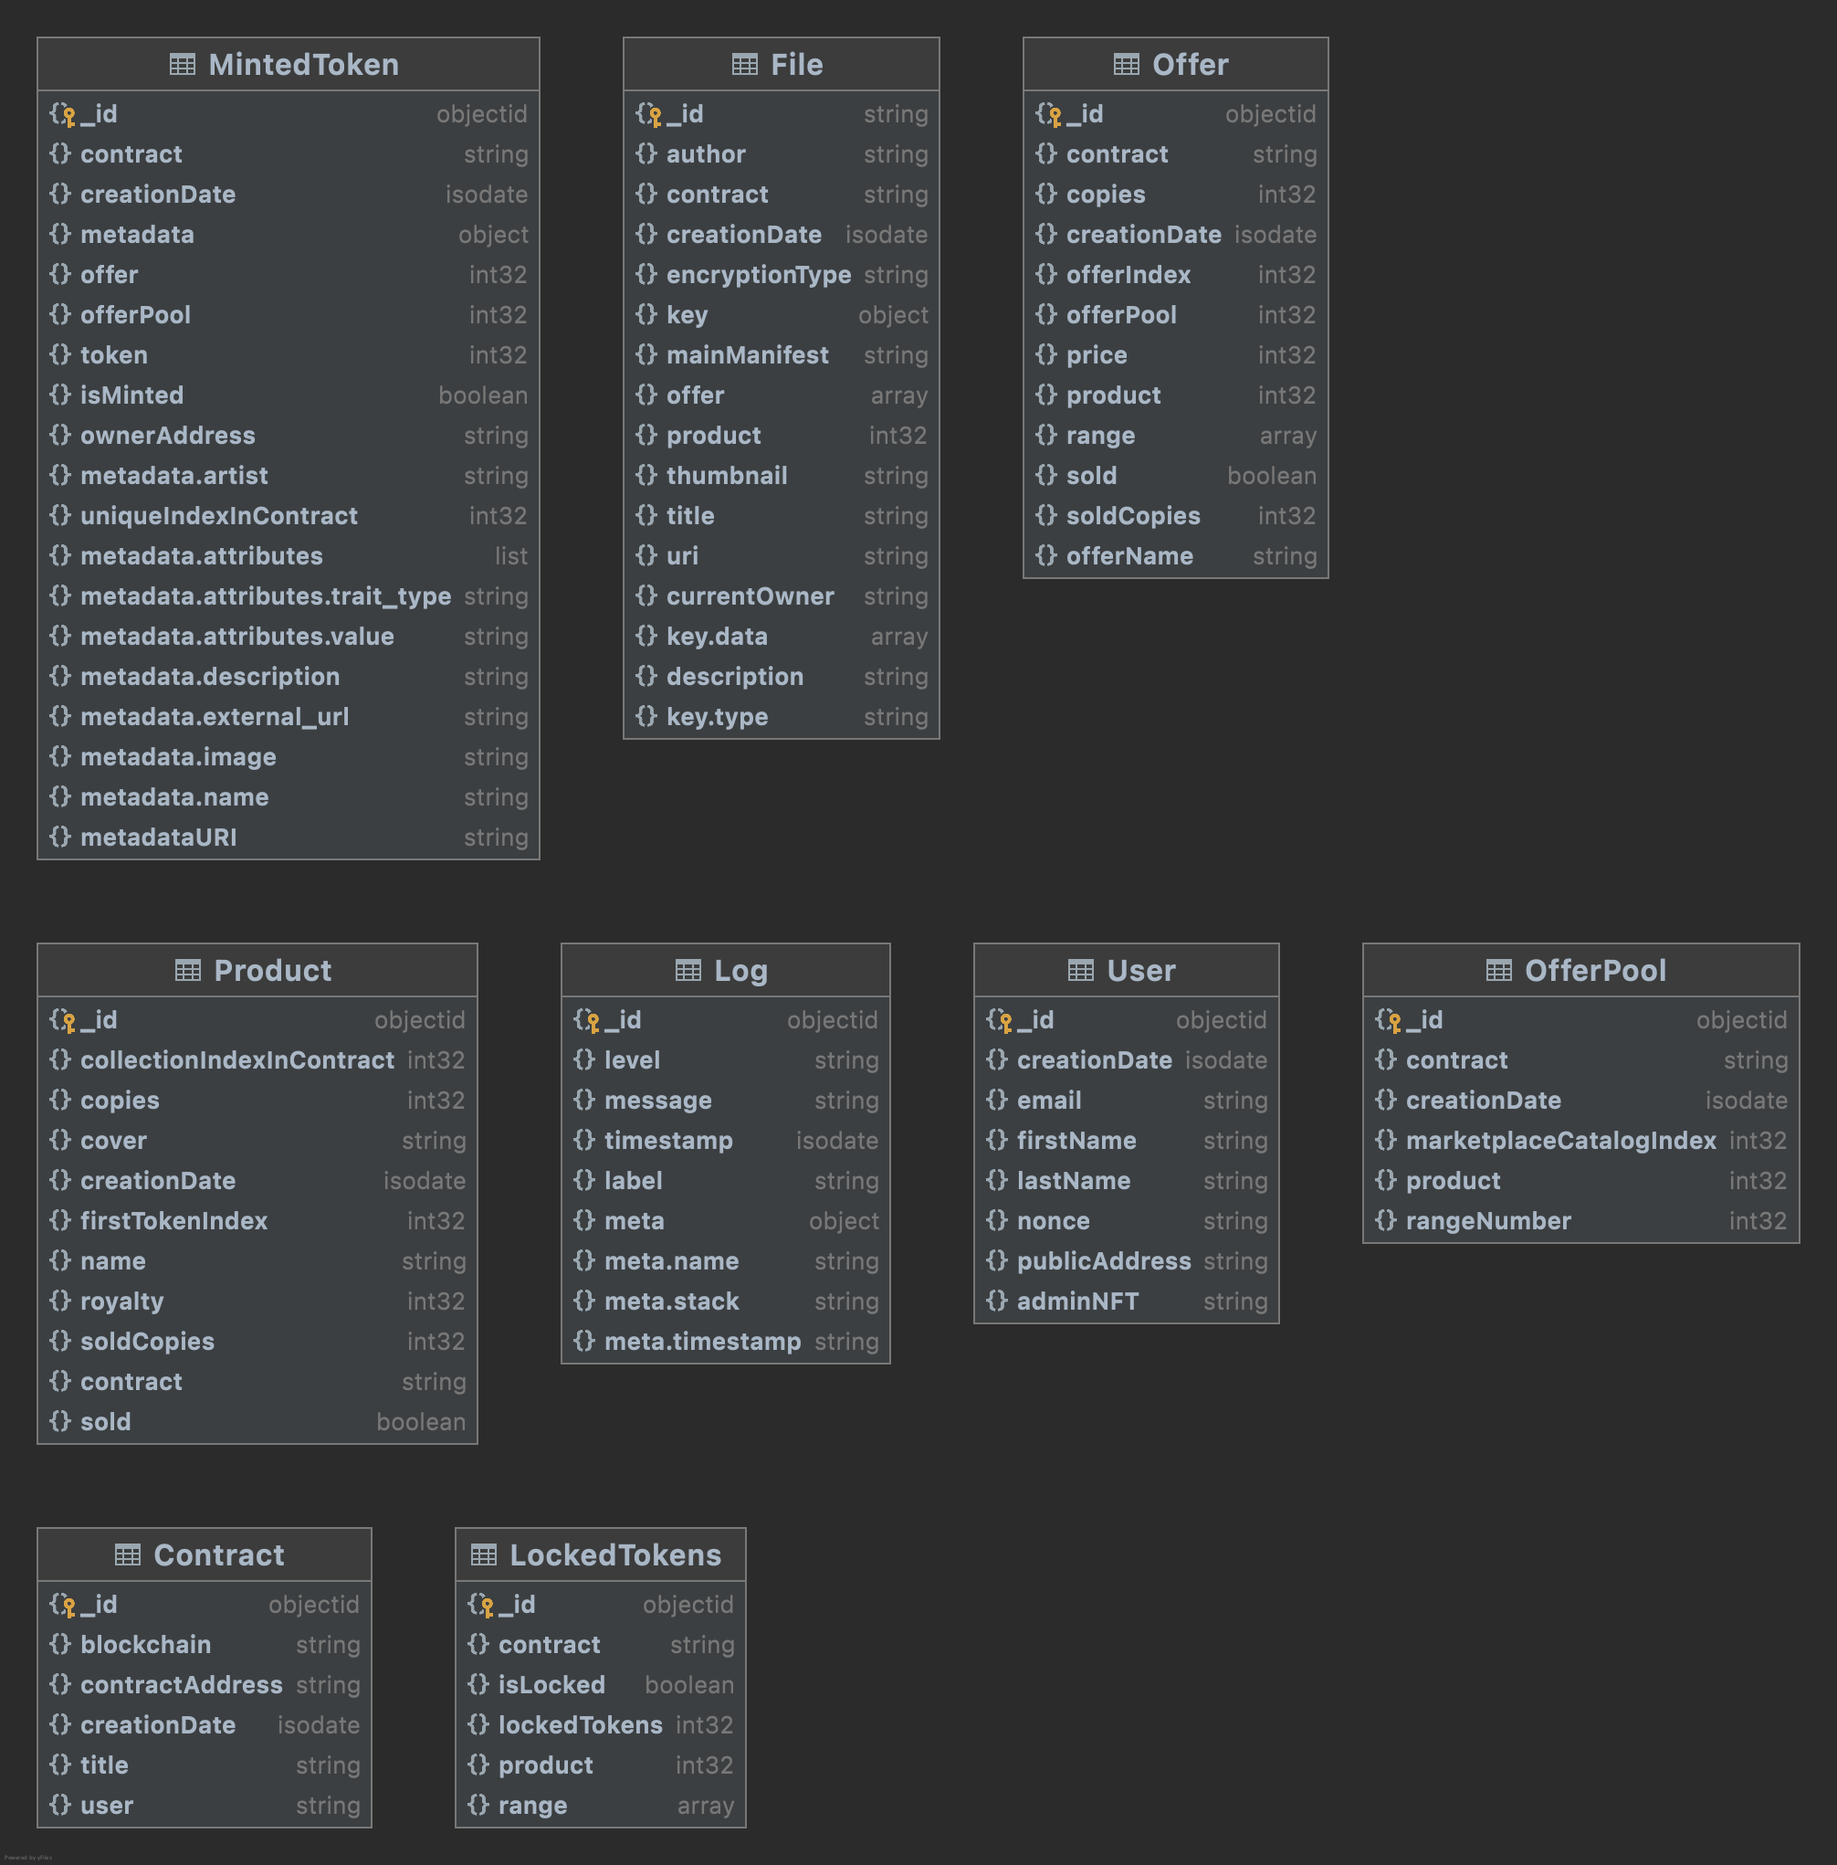
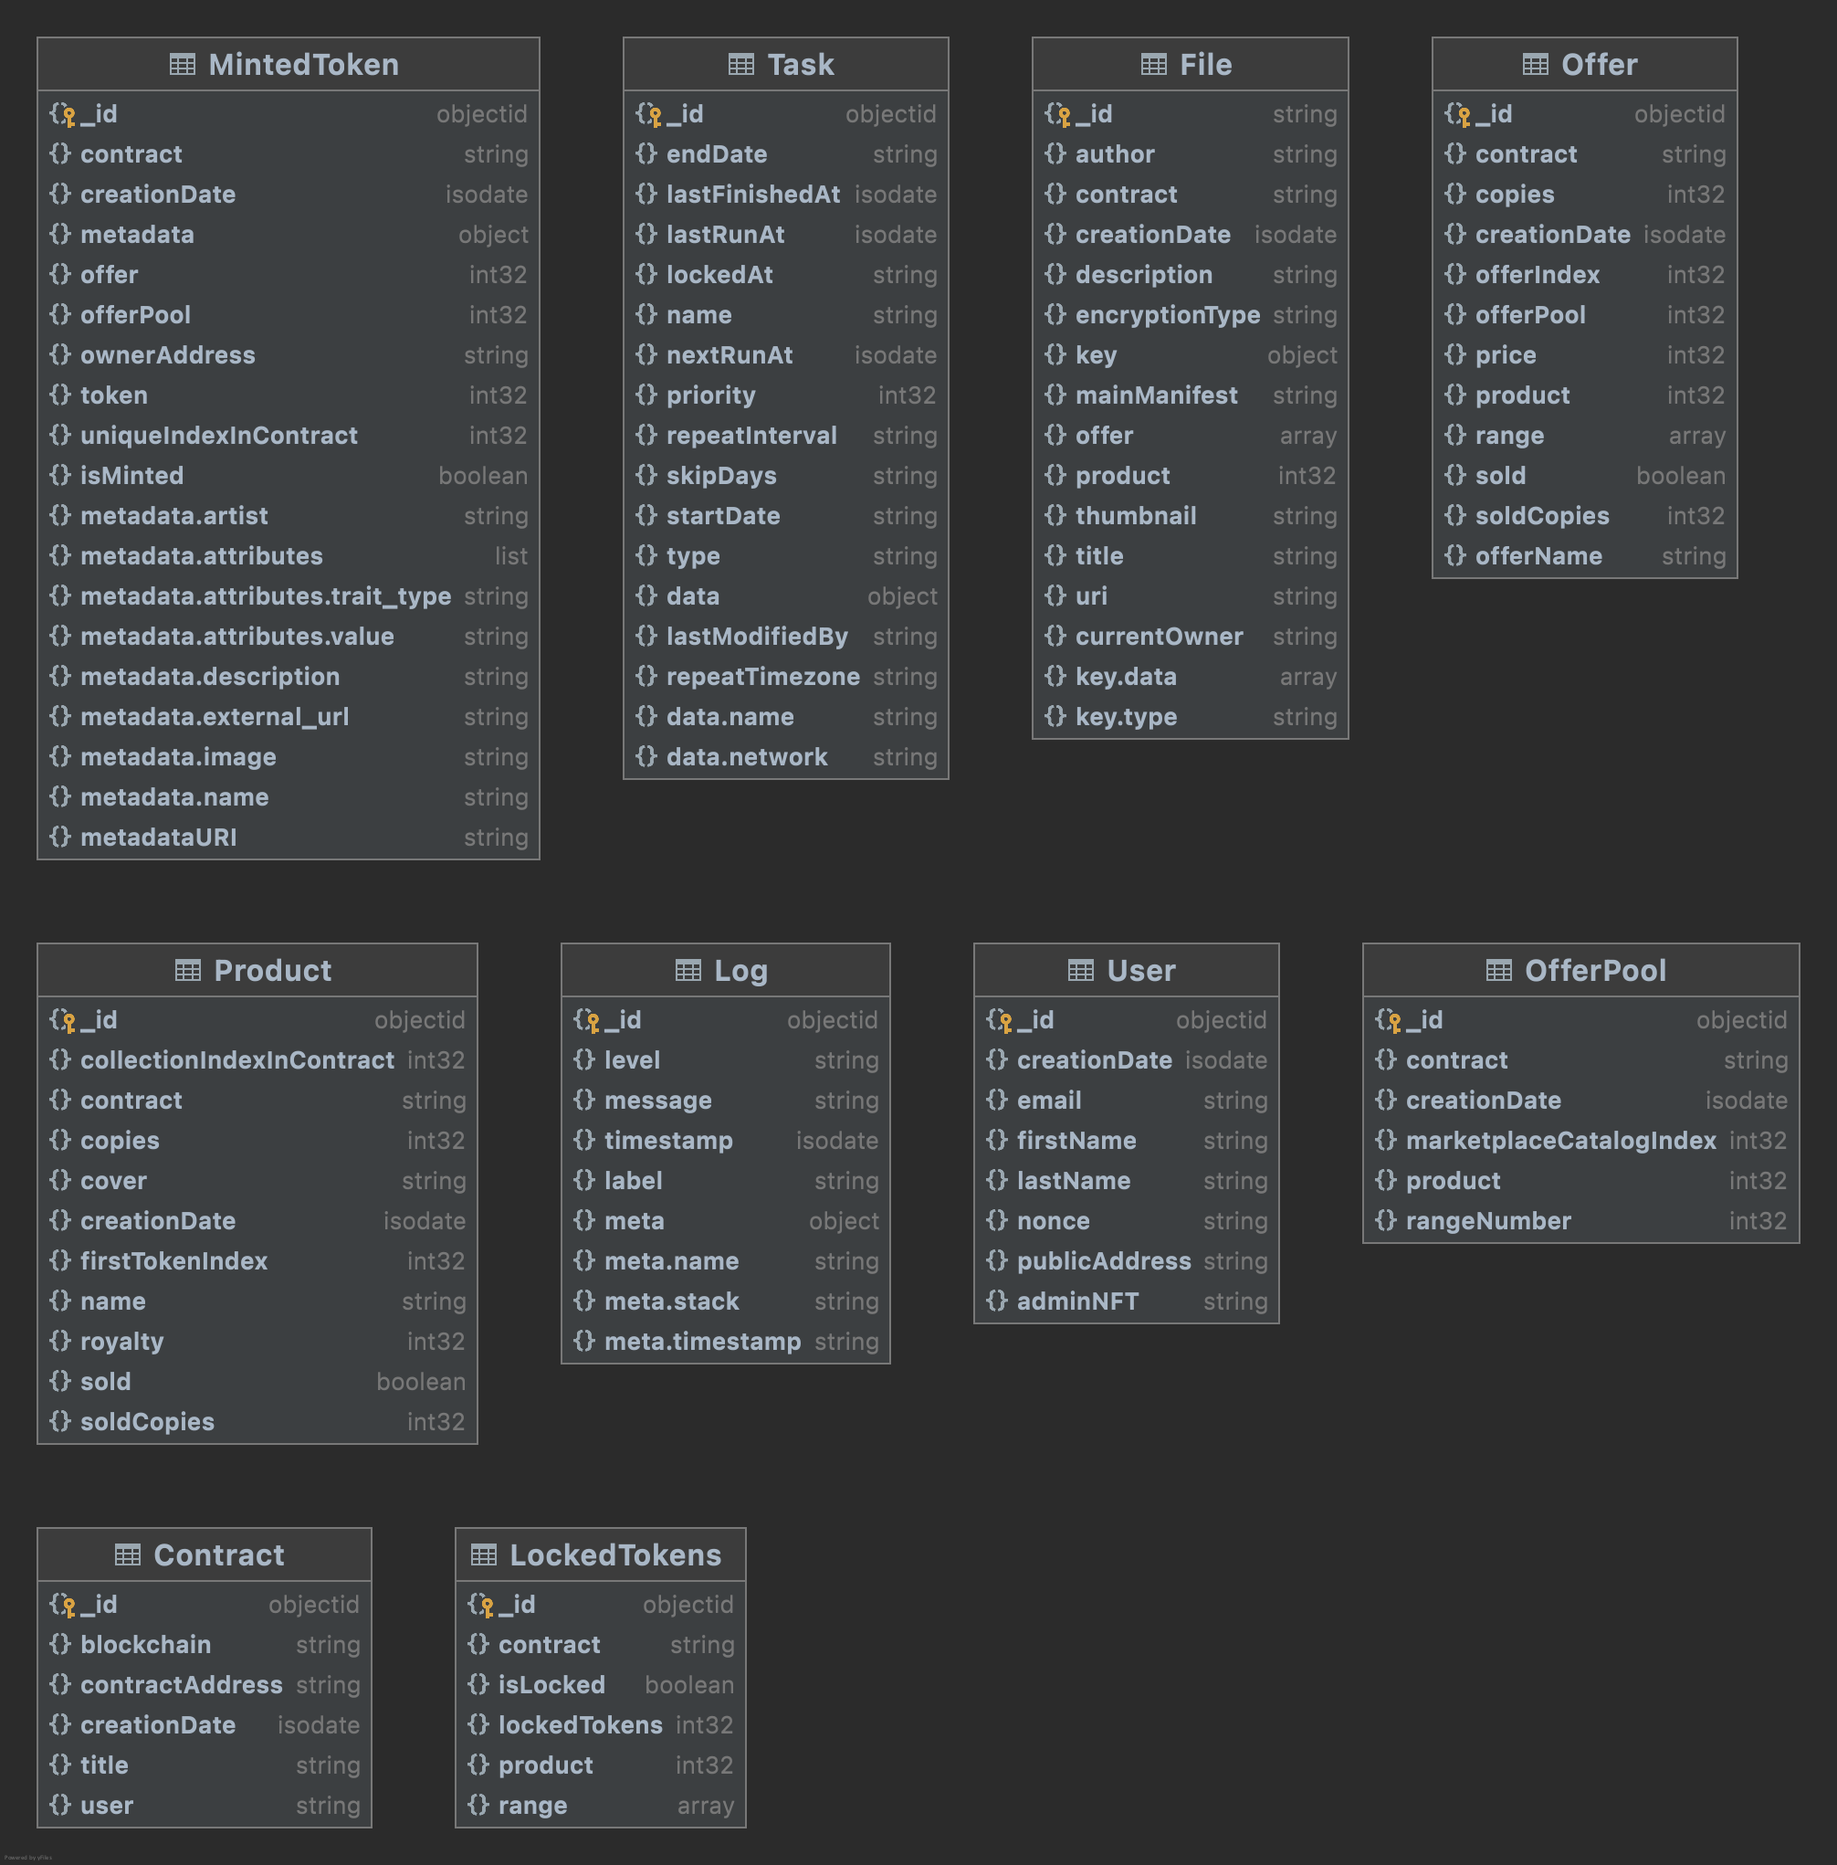
using single time connection to the networks; using fully configurable values of network connection parameters; updating compose files; updating .env file; updating DB structure in docs; refactoring;

diff --git a/blockchain-networks-service/bin/integrations/ethers/index.js b/blockchain-networks-service/bin/integrations/ethers/index.js
@@ -128,7 +128,7 @@ module.exports = async (db) => {
       const numberOfTokens = await factoryInstance.getContractCountOf(ownerAddress);
       const foundContracts = await db.Contract.find({ user: ownerAddress }).distinct('contractAddress');
 
-      log.info(`${ ownerAddress } has deployed, ${ numberOfTokens.toString() }, contracts in ${provider._network.name} network.`);
+      log.info(`${ ownerAddress } has deployed, ${ numberOfTokens.toString() }, contracts in ${ provider._network.name } network.`);
 
       for (let j = 0; j < numberOfTokens; j++) {
         const contractAddress = await factoryInstance.ownerToContracts(ownerAddress, j);
@@ -137,7 +137,7 @@ module.exports = async (db) => {
         const erc777Instance = new ethers.Contract(contract, Token, provider);
         const title = await erc777Instance.name();
 
-        log.info(`Contract ${ contractAddress } found for network ${provider._network.name}!`);
+        log.info(`Contract ${ contractAddress } found for network ${ provider._network.name }!`);
 
         if (!_.includes(foundContracts, contract)) {
           await db.Contract.create({
@@ -313,21 +313,18 @@ module.exports = async (db) => {
   };
 
   return Promise.all(_.map(providers, async providerData => {
-    const provider = new ethers.providers.JsonRpcProvider(providerData.url, providerData.network);
-
-    console.log('Connected to', provider._network.name);
-    console.log('Symbol:', provider._network.symbol);
+    console.log(`Connected to ${ providerData.provider._network.name }. Symbol: ${ providerData.provider._network.symbol }`);
 
     // These connections don't have an address associated, so they can read but can't write to the blockchain
-    let factoryInstance = await new ethers.Contract(providerData.factoryAddress, Factory, provider);
-    let minterInstance = await new ethers.Contract(providerData.minterAddress, Market, provider);
+    let factoryInstance = await new ethers.Contract(providerData.factoryAddress, Factory, providerData.provider);
+    let minterInstance = await new ethers.Contract(providerData.minterAddress, Market, providerData.provider);
 
     // Contracts
-    contractListeners(factoryInstance, provider);
+    contractListeners(factoryInstance, providerData.provider);
 
     // Products
     const arrayOfUsers = await db.User.distinct('publicAddress');
-    await Promise.all(_.map(arrayOfUsers, user => productListeners(provider, factoryInstance, user)));
+    await Promise.all(_.map(arrayOfUsers, user => productListeners(providerData.provider, factoryInstance, user)));
 
     // Offers
     offerListeners(minterInstance);

diff --git a/blockchain-networks-service/bin/integrations/ethers/providers.js b/blockchain-networks-service/bin/integrations/ethers/providers.js
@@ -1,23 +1,58 @@
+const ethers = require('ethers');
+
+const {
+  BINANCE_URL,
+  BINANCE_CHAIN_ID,
+  BINANCE_SYMBOL,
+  BINANCE_NAME,
+  BINANCE_FACTORY_ADDRESS,
+  BINANCE_MINTER_ADDRESS,
+  GOERLI_URL,
+  GOERLI_CHAIN_ID,
+  GOERLI_SYMBOL,
+  GOERLI_NAME,
+  GOERLI_FACTORY_ADDRESS,
+  GOERLI_MINTER_ADDRESS,
+  MATIC_MUMBAI_URL,
+  MATIC_MUMBAI_CHAIN_ID,
+  MATIC_MUMBAI_SYMBOL,
+  MATIC_MUMBAI_NAME,
+  MATIC_MUMBAI_FACTORY_ADDRESS,
+  MATIC_MUMBAI_MINTER_ADDRESS
+} = process.env;
+
 module.exports = [
   {
-    url: 'https://data-seed-prebsc-1-s1.binance.org:8545/',
-    network: { chainId: 97, symbol: 'BNB', name: 'Binance Testnet' },
-    factoryAddress: '0x91429c87b1D85B0bDea7df6F71C854aBeaD99EE4',
-    minterAddress: '0x3a61f5bF7D205AdBd9c0beE91709482AcBEE089f',
-    symbol: 'BNB',
+    provider: new ethers.providers.JsonRpcProvider(BINANCE_URL, {
+      chainId: Number(BINANCE_CHAIN_ID),
+      symbol: BINANCE_SYMBOL,
+      name: BINANCE_NAME
+    }),
+    factoryAddress: BINANCE_FACTORY_ADDRESS,
+    minterAddress: BINANCE_MINTER_ADDRESS,
+    network: BINANCE_SYMBOL,
+    name: BINANCE_NAME
   },
   {
-    url: 'https://eth-goerli.alchemyapi.io/v2/U0H4tRHPsDH69OKr4Hp1TOrDi-j7PKN_',
-    network: { chainId: 5, symbol: 'ETH', name: 'Goerli Testnet' },
-    factoryAddress: '0x74278C22BfB1DCcc3d42F8b71280C25691E8C157',
-    minterAddress: '0xE5c44102C354B97cbcfcA56F53Ea9Ede572a39Ba',
-    symbol: 'ETH'
+    provider: new ethers.providers.JsonRpcProvider(GOERLI_URL, {
+      chainId: Number(GOERLI_CHAIN_ID),
+      symbol: GOERLI_SYMBOL,
+      name: GOERLI_NAME
+    }),
+    factoryAddress: GOERLI_FACTORY_ADDRESS,
+    minterAddress: GOERLI_MINTER_ADDRESS,
+    network: GOERLI_SYMBOL,
+    name: GOERLI_NAME
   },
   {
-    url: 'https://rpc-mumbai.maticvigil.com',
-    network: { chainId: 80001, symbol: 'tMATIC', name: 'Matic Mumbai Testnet' },
-    factoryAddress: '0x1A5bf89208Dddd09614919eE31EA6E40D42493CD',
-    minterAddress: '0x63Dd6821D902012B664dD80140C54A98CeE97068',
-    symbol: 'tMATIC'
+    provider: new ethers.providers.JsonRpcProvider(MATIC_MUMBAI_URL, {
+      chainId: Number(MATIC_MUMBAI_CHAIN_ID),
+      symbol: MATIC_MUMBAI_SYMBOL,
+      name: MATIC_MUMBAI_NAME
+    }),
+    factoryAddress: MATIC_MUMBAI_FACTORY_ADDRESS,
+    minterAddress: MATIC_MUMBAI_MINTER_ADDRESS,
+    network: MATIC_MUMBAI_SYMBOL,
+    name: MATIC_MUMBAI_NAME
   }
 ];

diff --git a/blockchain-networks-service/bin/tasks/sync-tokens.js b/blockchain-networks-service/bin/tasks/sync-tokens.js
@@ -1,6 +1,7 @@
 const ethers = require('ethers');
 const _ = require('lodash');
 const log = require('../utils/logger')(module);
+const providers = require('../integrations/ethers/providers');
 const { abi: Token } = require('../integrations/ethers/contracts/RAIR_ERC721.json');
 const { BigNumberFromFunc, BigNumber } = require('../utils/helpers');
 
@@ -9,11 +10,12 @@ const lockLifetime = 1000 * 60 * 5; // 5 minutes - This could become very expens
 module.exports = (context) => {
   context.agenda.define('sync tokens', { lockLifetime }, async (task, done) => {
     try {
-      const { providerData, network } = task.attrs.data;
+      const { network, name } = task.attrs.data;
       const tokensForSave = [];
       const offersForUpdate = [];
+      const providerData = _.find(providers, p => p.network === network);
+      const provider = providerData.provider;
       const arrayOfContracts = await context.db.Contract.find({ blockchain: network }).distinct('contractAddress');
-      const provider = new ethers.providers.JsonRpcProvider(providerData.url, providerData.network);
 
       await Promise.all(_.map(arrayOfContracts, async contractAddress => {
         const tokenInstance = new ethers.Contract(contractAddress, Token, provider);
@@ -36,6 +38,8 @@ module.exports = (context) => {
             });
 
             const token = tokenId - foundProduct.firstTokenIndex;
+
+            // increasing number of minted tokens for a particular offer
             if (!_.isEmpty(foundProduct) && !_.isEmpty(foundOffers)) {
               const offer = _.find(foundOffers, offer => _.inRange(token, offer.range[0], (offer.range[1] + 1)));
               const index = _.findIndex(offersForUpdate, o => o.contract === offer.contract && o.offerPool === offer.offerPool && o.offerIndex === offer.offerIndex);

diff --git a/blockchain-networks-service/bin/tasks/index.js b/blockchain-networks-service/bin/tasks/index.js
@@ -49,42 +49,38 @@ module.exports = async (context) => {
   });
 
   agenda.on('success', async task => {
-    let info = {};
+    let data = task.attrs.data;
     let additionalInfo = '';
 
     switch (task.attrs.name) {
       case 'sync contracts':
-        info = { network: task.attrs.data.network };
-        await agenda.create('sync products & locks', task.attrs.data)
+        await agenda.create('sync products & locks', data)
           .schedule(moment()
             .utc()
             .toDate())
           .save();
         break;
       case 'sync products & locks':
-        info = { network: task.attrs.data.network };
-        await agenda.create('sync offerPools & offers', task.attrs.data)
+        await agenda.create('sync offerPools & offers', data)
           .schedule(moment()
             .utc()
             .toDate())
           .save();
         break;
       case 'sync offerPools & offers':
-        info = { network: task.attrs.data.network };
-        await agenda.create('sync tokens', task.attrs.data)
+        await agenda.create('sync tokens', data)
           .schedule(moment()
             .utc()
             .toDate())
           .save();
         break;
       case 'sync tokens':
-        info = { network: task.attrs.data.network };
         break;
       default:
         break;
     }
 
-    log.info(`Agenda [${ task.attrs.name }][${ task.attrs._id }] > processed with data ${ JSON.stringify(info) }. ${ additionalInfo }`);
+    log.info(`Agenda [${ task.attrs.name }][${ task.attrs._id }] > processed with data ${ JSON.stringify(data) }. ${ additionalInfo }`);
   });
 
   agenda.on('fail', (err) => {

diff --git a/blockchain-networks-service/bin/tasks/sync-offerpools-&-offers.js b/blockchain-networks-service/bin/tasks/sync-offerpools-&-offers.js
@@ -1,6 +1,7 @@
 const ethers = require('ethers');
 const _ = require('lodash');
 const log = require('../utils/logger')(module);
+const providers = require('../integrations/ethers/providers');
 const { abi: MinterAbi } = require('../integrations/ethers/contracts/Minter_Marketplace.json');
 const { BigNumberFromFunc, BigNumber } = require('../utils/helpers');
 
@@ -9,10 +10,11 @@ const lockLifetime = 1000 * 60 * 5; // 5 minutes - This could become very expens
 module.exports = (context) => {
   context.agenda.define('sync offerPools & offers', { lockLifetime }, async (task, done) => {
     try {
-      const { providerData, network } = task.attrs.data;
+      const { network, name } = task.attrs.data;
       const offerPoolsForSave = [];
       const offersForSave = [];
-      const provider = new ethers.providers.JsonRpcProvider(providerData.url, providerData.network);
+      const providerData = _.find(providers, p => p.network === network);
+      const provider = providerData.provider;
       const minterInstance = await new ethers.Contract(providerData.minterAddress, MinterAbi, provider);
       const products = await context.db.Contract.aggregate([
         { $match: { blockchain: network } },

diff --git a/blockchain-networks-service/bin/tasks/sync-products-&-locks.js b/blockchain-networks-service/bin/tasks/sync-products-&-locks.js
@@ -1,6 +1,7 @@
 const ethers = require('ethers');
 const _ = require('lodash');
 const log = require('../utils/logger')(module);
+const providers = require('../integrations/ethers/providers');
 const { abi: Token } = require('../integrations/ethers/contracts/RAIR_ERC721.json');
 const { BigNumberFromFunc, BigNumber } = require('../utils/helpers');
 
@@ -9,10 +10,11 @@ const lockLifetime = 1000 * 60 * 5; // 5 minutes - This could become very expens
 module.exports = (context) => {
   context.agenda.define('sync products & locks', { lockLifetime }, async (task, done) => {
     try {
-      const { providerData, network } = task.attrs.data;
+      const { network, name } = task.attrs.data;
       const productsForSave = [];
       // const locksForSave = [];
-      const provider = new ethers.providers.JsonRpcProvider(providerData.url, providerData.network);
+      const providerData = _.find(providers, p => p.network === network);
+      const provider = providerData.provider;
       const arrayOfContracts = await context.db.Contract.find({ blockchain: network }).distinct('contractAddress');
 
       await Promise.all(_.map(arrayOfContracts, async contract => {

diff --git a/blockchain-networks-service/bin/tasks/sync-contracts.js b/blockchain-networks-service/bin/tasks/sync-contracts.js
@@ -1,6 +1,7 @@
 const ethers = require('ethers');
 const _ = require('lodash');
 const log = require('../utils/logger')(module);
+const providers = require('../integrations/ethers/providers');
 const { abi: Token } = require('../integrations/ethers/contracts/RAIR_ERC721.json');
 const { abi: Factory } = require('../integrations/ethers/contracts/RAIR_Token_Factory.json');
 
@@ -9,9 +10,10 @@ const lockLifetime = 1000 * 60 * 5; // 5 minutes - This could become very expens
 module.exports = (context) => {
   context.agenda.define('sync contracts', { lockLifetime }, async (task, done) => {
     try {
-      const { providerData } = task.attrs.data;
+      const { network, name } = task.attrs.data;
       const contractsForSave = [];
-      const provider = new ethers.providers.JsonRpcProvider(providerData.url, providerData.network);
+      const providerData = _.find(providers, p => p.network === network);
+      const provider = providerData.provider;
       const factoryInstance = await new ethers.Contract(providerData.factoryAddress, Factory, provider);
 
       // get all users on platform

diff --git a/blockchain-networks-service/bin/tasks/sync.js b/blockchain-networks-service/bin/tasks/sync.js
@@ -3,17 +3,19 @@ const log = require('../utils/logger')(module);
 const moment = require('moment-timezone');
 const providers = require('../integrations/ethers/providers');
 
+const { SYNC_CONTRACT_REPEAT_EVERY, SYNC_CONTRACT_TASK_INTERVAL } = process.env;
+
 const lockLifetime = 1000 * 60 * 5; // 5 minutes - This could become very expensive and time consuming
 
 module.exports = (context) => {
   context.agenda.define('sync', { lockLifetime }, async (task, done) => {
     try {
       await Promise.all(_.map(providers, async (providerData, i) =>
-        context.agenda.create('sync contracts', { network: providerData.symbol, providerData })
-          .repeatEvery('30 minutes')
+        context.agenda.create('sync contracts', _.pick(providerData, ['network', 'name']))
+          .repeatEvery(`${SYNC_CONTRACT_REPEAT_EVERY} minutes`)
           .schedule(moment()
             .utc()
-            .add(2 * i, 'minutes')
+            .add(Number(SYNC_CONTRACT_TASK_INTERVAL) * i, 'minutes')
             .toDate())
           .save()
       ));
